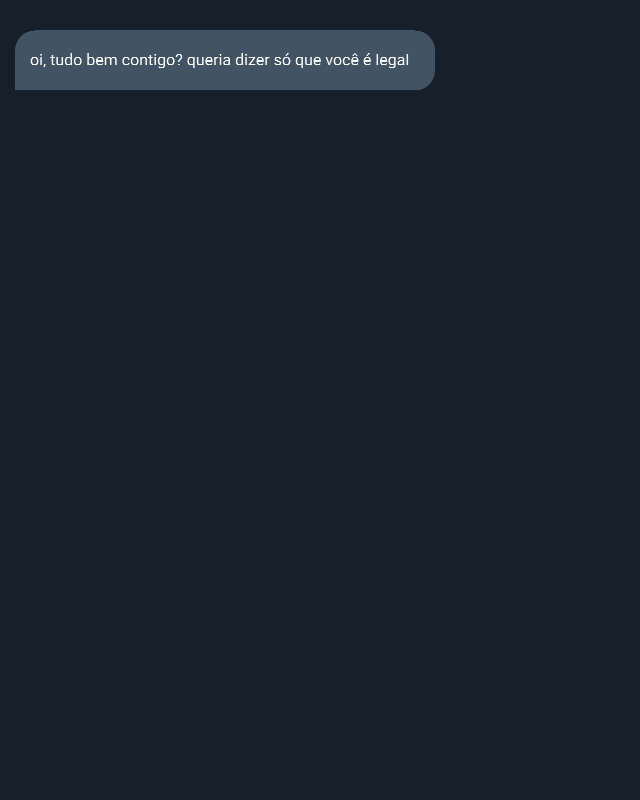
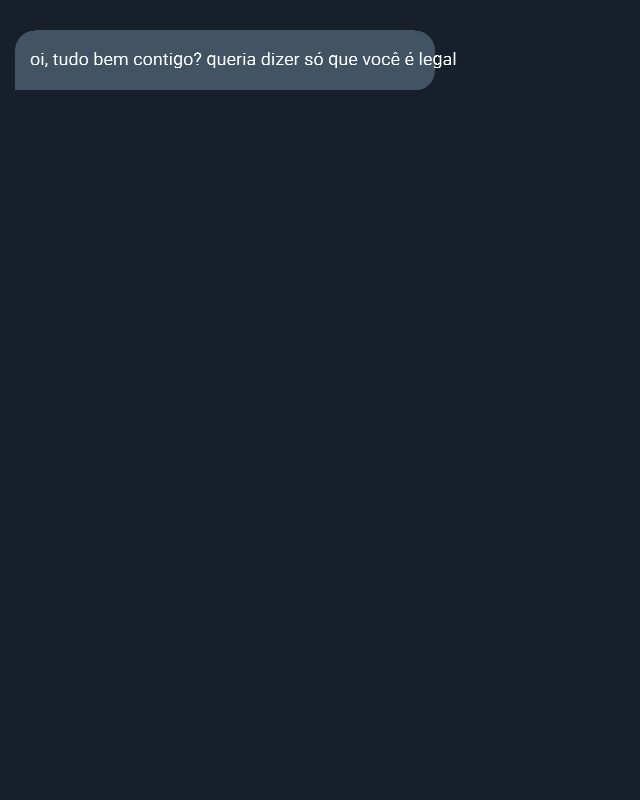
renderização inicial das bolhas de chat
As bolhas iniciando o modelo de renderização
de um chat do twitter de acordo com uma lista
de mensagens de uma confissão.

Changed region(s): [[0.0625, 0.0625, 0.7188, 0.0938]]

diff --git a/src/renderImage/index.js b/src/renderImage/index.js
@@ -1,88 +1,193 @@
-const pimage = require('pureimage');
-const stream = require('stream');
+const pimage = require('pureimage')
+const stream = require('stream')
 const fs = require('fs')
 
+const borderRadius = 20
 
-const renderBubble = async () => {
-  const width = 640
-  const height = 800
-  const img1 = pimage.make(width, height)
-  const ctx = img1.getContext('2d')
-  ctx.fillStyle = 'rgba(23,31,42,1)'
-  ctx.fillRect(0, 0, width, height)
+/**
+ * Renderiza uma mensagem em uma bolha no board.
+ * 
+ * @param {string} text O texto que deve ser renderizado na bolha.
+ * @param {number} y A posição y inicial.
+ * @param {boolean} start Verifica se é uma mensagem inicial.
+ * @param {Context} ctx O contexto em que precisa ser renderizado.
+ */
+const renderMessage = async (text, y, start, ctx) => {
   ctx.fillStyle = 'rgba(66,83,99,1)'
-  drawChatBubble(15, 30, 420, 60, 20, ctx)
 
-  const text = "oi, tudo bem contigo? queria dizer só que você é legal"
-  await setFont()
-
-  ctx.fillStyle = '#ffffff';
-  ctx.font = "16pt 'Roboto'";
-  ctx.fillText(text, 30, 65);
-
-  // TODO: create in memory stream to output to the twitter api
-  pimage.encodePNGToStream(img1, fs.createWriteStream('out.png')).then(() => {
-    console.log("wrote out the png file to out.png");
-  }).catch((e)=>{
-      console.log("there was an error writing");
-  });
+  // TODO: compute bubble width
+  // TODO: compute bubble height
+  const bubbleWidth = 420
+  const bubbleHeight = 60
+  if (start) drawChatBubble(15, y, bubbleWidth, bubbleHeight, borderRadius, ctx)
+  else drawMidBubble(15, y, 420, 60, 20, ctx)
+  
+  ctx.fillStyle = '#ffffff'
+  ctx.font = "18pt 'Roboto'"
+  // TODO: setup the messages that stay in each part of the message
+  const parts = [text]
+  for (let p of parts) {
+    ctx.fillText(p, 30, 65)
+  }
 }
 
+/**
+ * Renderiza uma lista de mensagens como se fossem mensagens do twitter. 
+ * 
+ * @param {string[]} messages Lista de mensagens a ser colocadas em bolhas
+ */
+const renderConfession = async (messages) => {
+  const width = 640
+  const height = 800
+  const confession = pimage.make(width, height)
+  const ctx = confession.getContext('2d')
+  ctx.fillStyle = 'rgba(23,31,42,1)'
+  ctx.fillRect(0, 0, width, height)
+
+  await setFont()
+
+  for (let text of messages) {
+    renderMessage(text, 30, true, ctx)
+  }
+
+  // TODO: create in memory stream to output to the twitter api
+  pimage
+    .encodePNGToStream(confession, fs.createWriteStream('out.png'))
+    .then(() => {
+      console.log('wrote out the png file to out.png')
+    })
+    .catch((e) => {
+      console.log('there was an error writing')
+    })
+}
+
+const testRender = async () => {
+  const texts = ['oi, tudo bem contigo? queria dizer só que você é legal']
+
+  renderConfession(texts)
+}
+
+/**
+ * Promise para realizar a definição de uma fonte no pureImage. 
+ * 
+ * @returns Promise<void>
+ */
 const setFont = async () => {
   return new Promise((resolve, reject) => {
     try {
-      const fnt= pimage.registerFont('/Users/caiogomes/Documents/projects/channel/indiretas-api/src/assets/Roboto-Regular.ttf','Roboto');
+      const fnt = pimage.registerFont(
+        '/Users/caiogomes/Documents/projects/channel/indiretas-api/src/assets/Roboto-Regular.ttf',
+        'Roboto'
+      )
       fnt.load(() => {
-        resolve();
-      });
-    } catch(err) {
+        resolve()
+      })
+    } catch (err) {
       reject(err)
     }
   })
 }
 
+/**
+ * Desenha uma bolha de chat inicial do twitter.
+ * 
+ * @param {number} x O top left x da bolha.
+ * @param {number} y O top left y da bolha.
+ * @param {number} width A largura da bolha.
+ * @param {number} height A altura da bolha.
+ * @param {number} cornerRadius O border radius da chat bubble.
+ * @param {Context} ctx Contexto de desenho 2d.
+ */
 const drawChatBubble = (x, y, width, height, cornerRadius, ctx) => {
   // draw a bigger rectangle, and 2 other rectangles and 3 circles
-  ctx.fillRect(x + cornerRadius, y, width - 2*cornerRadius, height)
-  ctx.fillRect(x, y + cornerRadius, cornerRadius, height - 1*cornerRadius)
-  ctx.fillRect(x + width - cornerRadius, y + cornerRadius, cornerRadius, height - 2*cornerRadius)
-  
+  ctx.fillRect(x + cornerRadius, y, width - 2 * cornerRadius, height)
+  ctx.fillRect(x, y + cornerRadius, cornerRadius, height - 1 * cornerRadius)
+  ctx.fillRect(
+    x + width - cornerRadius,
+    y + cornerRadius,
+    cornerRadius,
+    height - 2 * cornerRadius
+  )
+
   // left top
-  ctx.beginPath();
-  ctx.arc(x + cornerRadius, y + cornerRadius, cornerRadius, 0, Math.PI, true);
-  ctx.closePath();
-  ctx.fill();
+  ctx.beginPath()
+  ctx.arc(x + cornerRadius, y + cornerRadius, cornerRadius, 0, Math.PI, true)
+  ctx.closePath()
+  ctx.fill()
 
   // right top
-  ctx.beginPath();
-  ctx.arc(x + width - cornerRadius, y + cornerRadius, cornerRadius, 0, Math.PI, true);
-  ctx.closePath();
-  ctx.fill();
+  ctx.beginPath()
+  ctx.arc(
+    x + width - cornerRadius,
+    y + cornerRadius,
+    cornerRadius,
+    0,
+    Math.PI,
+    true
+  )
+  ctx.closePath()
+  ctx.fill()
 
   // right bottom
-  ctx.beginPath();
-  ctx.arc(x + width - cornerRadius, y + height - cornerRadius, cornerRadius, Math.PI, Math.PI, true);
-  ctx.closePath();
-  ctx.fill();
+  ctx.beginPath()
+  ctx.arc(
+    x + width - cornerRadius,
+    y + height - cornerRadius,
+    cornerRadius,
+    Math.PI,
+    Math.PI,
+    true
+  )
+  ctx.closePath()
+  ctx.fill()
 }
 
+/**
+ * Desenha uma bolha de meio de chat do twitter.
+ * 
+ * @param {number} x O top left x da bolha.
+ * @param {number} y O top left y da bolha.
+ * @param {number} width A largura da bolha.
+ * @param {number} height A altura da bolha.
+ * @param {number} cornerRadius O border radius da chat bubble.
+ * @param {Context} ctx Contexto de desenho 2d.
+ */
 const drawMidBubble = (x, y, width, height, cornerRadius, ctx) => {
   // draw a bigger rectangle, and 2 other rectangles and 3 circles
-  ctx.fillRect(x + cornerRadius, y, width - 2*cornerRadius, height)
-  ctx.fillRect(x, cornerRadius, cornerRadius, height - 1*cornerRadius)
-  ctx.fillRect(x + width - cornerRadius, y + cornerRadius, cornerRadius, height - 2*cornerRadius)
+  ctx.fillRect(x + cornerRadius, y, width - 2 * cornerRadius, height)
+  ctx.fillRect(x, cornerRadius, cornerRadius, height - 1 * cornerRadius)
+  ctx.fillRect(
+    x + width - cornerRadius,
+    y + cornerRadius,
+    cornerRadius,
+    height - 2 * cornerRadius
+  )
 
   // right top
-  ctx.beginPath();
-  ctx.arc(x + width - cornerRadius, y + cornerRadius, cornerRadius, 0, Math.PI, true);
-  ctx.closePath();
-  ctx.fill();
+  ctx.beginPath()
+  ctx.arc(
+    x + width - cornerRadius,
+    y + cornerRadius,
+    cornerRadius,
+    0,
+    Math.PI,
+    true
+  )
+  ctx.closePath()
+  ctx.fill()
 
   // right bottom
-  ctx.beginPath();
-  ctx.arc(x + width - cornerRadius, y + height - cornerRadius, cornerRadius, Math.PI, Math.PI, true);
-  ctx.closePath();
-  ctx.fill();
+  ctx.beginPath()
+  ctx.arc(
+    x + width - cornerRadius,
+    y + height - cornerRadius,
+    cornerRadius,
+    Math.PI,
+    Math.PI,
+    true
+  )
+  ctx.closePath()
+  ctx.fill()
 }
 
-renderBubble()
+testRender()
